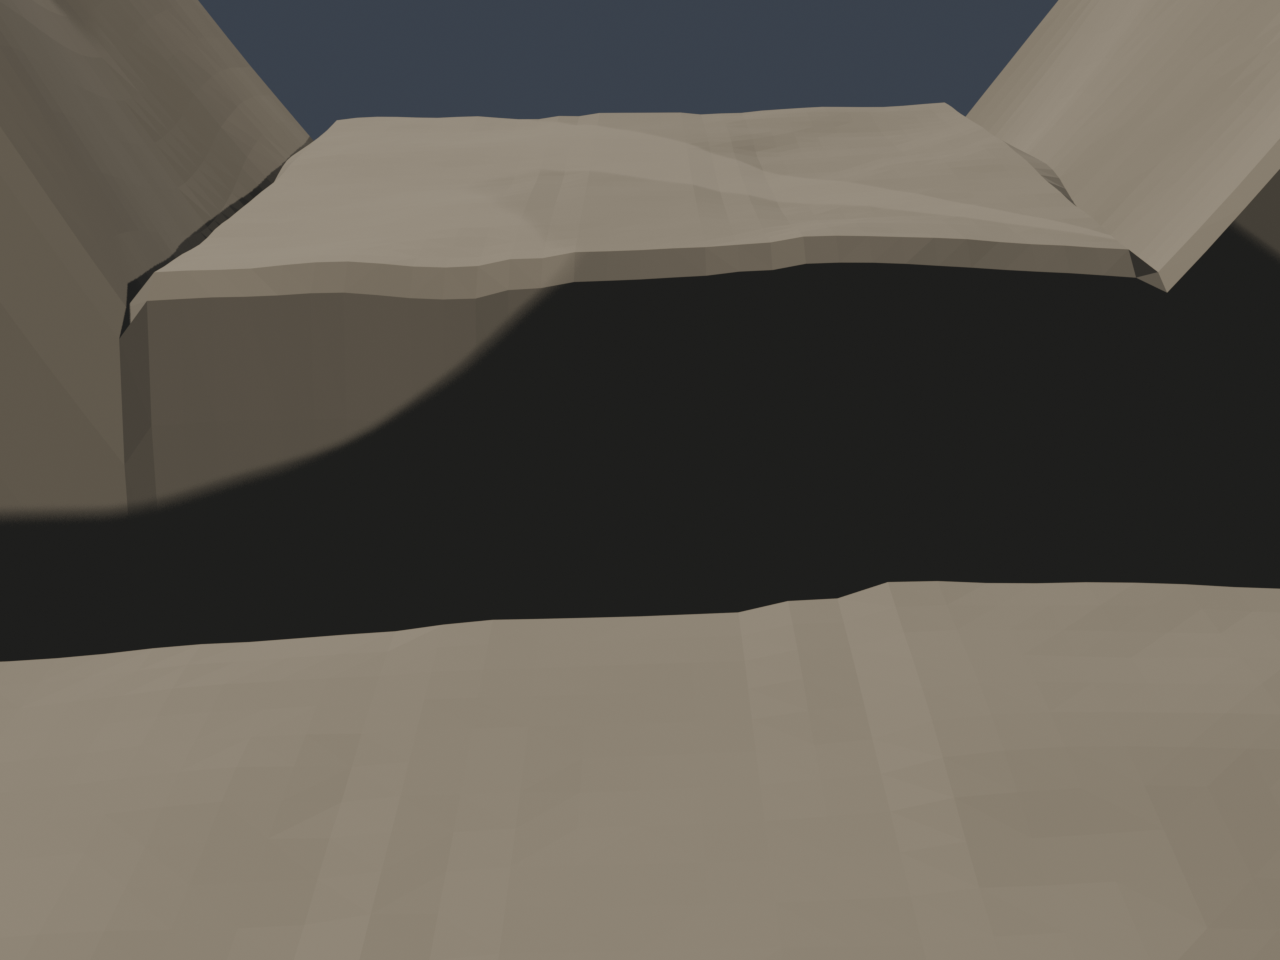
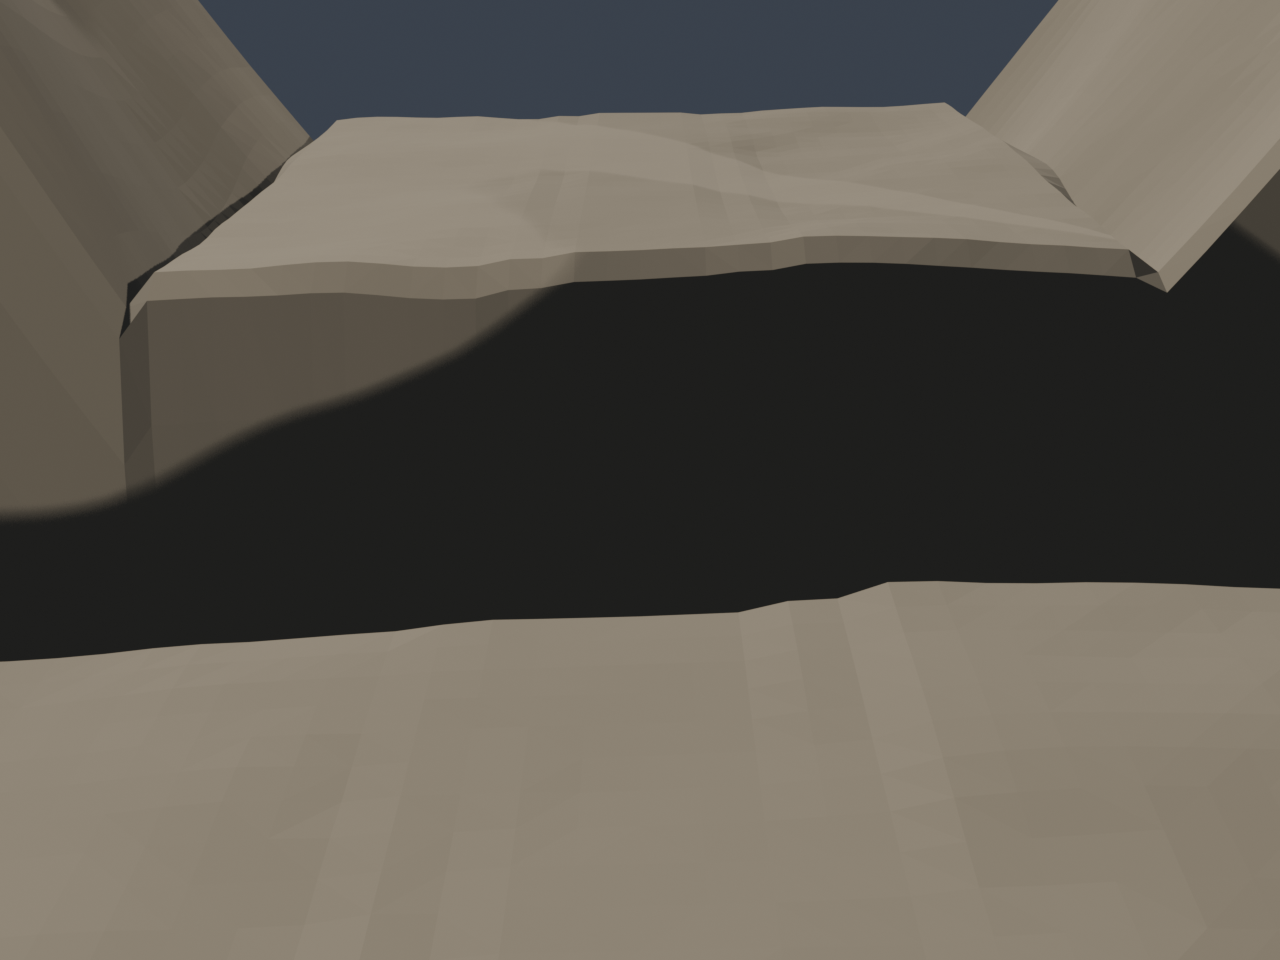
fix(M6-1): 河谷改横向河身（水线~19m横贯峡谷抵崖壁，无路可绕必须游泳；岩缝低矮归M6-2巨石阵）

Changed region(s): [[0.0625, 0.3438, 0.4062, 0.5625]]

diff --git a/blender_assets/scripts/canyon_terrain.py b/blender_assets/scripts/canyon_terrain.py
@@ -5,7 +5,8 @@ headless 用法: blender.exe --background --factory-startup --python canyon_terr
   z  34- 46  下行坡道 y=0 → -1.5（视觉铺 SM_Step 台阶）
   z  46- 96  草原缓起伏 y≈-1.5±0.6
   z  96-126  岩缝段 y=-1.5 平底（|x|>1.4 升壁 3m，缝顶另摆横石）
-  z 126-176  河谷下切（河床 y=-3.5，水面 y=-2.6，宽 18m）
+  z 126-176  河谷段：两岸缓坡河滩 + 横向河身（河床 y=-3.5、水面 y=-2.6；水线宽 ~19m，
+             河道沿 x 横贯峡谷抵两侧崖壁——无路可绕，只能游泳通过）
   z 176-194  南岸高台 y=-1.5（深渊边缘可走行；爬绳段起点）
   z 194-208  深渊带（底 y=-32 全黑不可达，坠入即死；斜绳横越其上）
   z 208-216  对岸崖壁（35m 升至崖顶 y=3）
@@ -66,9 +67,9 @@ def path_height(z):
     if z < 46:   return -1.5 * sstep(34, 46, z)                  # 出口坡道
     if z < 96:   return -1.5                                      # 草原
     if z < 126:  return -1.5                                      # 岩缝平底
-    if z < 176:                                                  # 河谷下切
-        k = sstep(126, 140, z) * (1 - sstep(164, 176, z))
-        return -1.5 - 2.0 * k                                     # 河床 -3.5 → 回 -1.5
+    if z < 176:                                                  # 河谷：横向河身 + 两岸缓坡河滩
+        k = sstep(134, 146, z) * (1 - sstep(154, 166, z))
+        return -1.5 - 2.0 * k                                     # 河床 -3.5（深槽 z 146-154）
     if z < 194:  return -1.5                                      # 南岸高台（深渊边缘）
     if z < 208:  return -1.5 - 30.5 * sstep(194, 206, z)          # 断崖直落：深渊底 -32（全黑不可达）
     return -32.0 + 35.0 * sstep(208, 216, z)                      # 对岸崖壁 35m 升至崖顶 +3
@@ -272,15 +273,27 @@ def render_views():
         assert size > 20000, f"渲染图过小: {path} {size}B"
         print(f"RENDER ok {os.path.basename(path)} {size}B engine={scene.render.engine}")
 
-    # 顶视：七段可辨
+    # 顶视：七段可辨（低角度侧光→河谷/岩缝/深渊呈浮雕明暗；渲染后恢复原光照）
+    sun.rotation_euler = (1.15, 0.0, 0.0)
+    fill_data.energy = 0.15
     shoot(os.path.join(RENDER_DIR, "terrain_top.png"),
           (0, -139, 340), (0, -139, 0), 32, 1024, 1536)
-    # 透视 1：河谷中段回望——两侧崖壁夹持的峡谷纵深（草原→岩缝→河谷下切）
+    sun.rotation_euler = (0.75, 0.15, 0.5)
+    fill_data.energy = 1.0
+    # 透视 1：河谷中段回望——两侧崖壁夹持的峡谷纵深（草原→岩缝→横向河谷）
     shoot(os.path.join(RENDER_DIR, "terrain_persp1.png"),
           (6, -60, 5), (-2, -150, -2), 42, 1280, 960)
     # 透视 2：南岸高台边缘俯瞰——深渊断面→对岸崖壁→崖顶平台
     shoot(os.path.join(RENDER_DIR, "terrain_persp2.png"),
           (0, -160, 16), (0, -210, -4), 42, 1280, 960)
+    # 透视 3：河谷瞭望——出岩缝南望：河滩前景 → 横向河槽 → 对岸缓坡（水线宽 ~19m）
+    # 临时低角度侧光：高角度光下 2m 浅槽对比弱，低角度光让南北坡呈浮雕明暗（渲染后恢复）
+    sun.rotation_euler = (1.15, 0.0, 0.0)
+    fill_data.energy = 0.15
+    shoot(os.path.join(RENDER_DIR, "terrain_river.png"),
+          (0, -128, 4), (0, -152, -3.5), 24, 1280, 960)
+    sun.rotation_euler = (0.75, 0.15, 0.5)
+    fill_data.energy = 1.0
 
 
 def main():

diff --git a/docs/superpowers/plans/2026-10-11-adventure-expansion-m6.md b/docs/superpowers/plans/2026-10-11-adventure-expansion-m6.md
@@ -87,7 +87,8 @@ headless 用法: blender.exe --background --factory-startup --python canyon_terr
   z  34- 46  下行坡道 y=0 → -1.5（视觉铺 SM_Step 台阶）
   z  46- 96  草原缓起伏 y≈-1.5±0.6
   z  96-126  岩缝段 y=-1.5 平底（|x|>1.4 升壁 3m，缝顶另摆横石）
-  z 126-176  河谷下切（河床 y=-3.5，水面 y=-2.6，宽 18m）
+  z 126-176  河谷段：两岸缓坡河滩 + 横向河身（河床 y=-3.5、水面 y=-2.6；水线宽 ~19m，
+             河道沿 x 横贯峡谷抵两侧崖壁——无路可绕，只能游泳通过）
   z 176-194  南岸高台 y=-1.5（深渊边缘可走行；爬绳段起点）
   z 194-208  深渊带（底 y=-32 全黑不可达，坠入即死；斜绳横越其上）
   z 208-216  对岸崖壁（35m 升至崖顶 y=3）
@@ -115,9 +116,9 @@ def path_height(z):
     if z < 46:   return -1.5 * sstep(34, 46, z)                  # 出口坡道
     if z < 96:   return -1.5                                      # 草原
     if z < 126:  return -1.5                                      # 岩缝平底
-    if z < 176:                                                  # 河谷下切
-        k = sstep(126, 140, z) * (1 - sstep(164, 176, z))
-        return -1.5 - 2.0 * k                                     # 河床 -3.5 → 回 -1.5
+    if z < 176:                                                  # 河谷：横向河身 + 两岸缓坡河滩
+        k = sstep(134, 146, z) * (1 - sstep(154, 166, z))
+        return -1.5 - 2.0 * k                                     # 河床 -3.5（深槽 z 146-154）
     if z < 194:  return -1.5                                      # 南岸高台（深渊边缘）
     if z < 208:  return -1.5 - 30.5 * sstep(194, 206, z)          # 断崖直落：深渊底 -32（全黑不可达）
     return -32.0 + 35.0 * sstep(208, 216, z)                      # 对岸崖壁 35m 升至崖顶 +3
@@ -164,14 +165,14 @@ def build_terrain():
 
 - [ ] **Step 2: 补导出/渲染/断言段并 headless 跑**
 
-（脚本后续段：SM_Step 构建 → 材质 → triangulate → 导出（`axis_forward='-Z', axis_up='Y'`，与 temple_kit 相同）→ assert（顶点数 ≈185×65、FBX >20KB、tris ≤ 30k）→ `--render` 时顶视+两个透视渲染到 `docs/milestones/M6/`）
+（脚本后续段：SM_Step 构建 → 材质 → triangulate → 导出（`axis_forward='-Z', axis_up='Y'`，与 temple_kit 相同）→ assert（顶点数 ≈185×65、FBX >20KB、tris ≤ 30k）→ `--render` 时顶视+两个透视+河谷俯瞰渲染到 `docs/milestones/M6/`）
 
 Run: `blender.exe --background --factory-startup --python blender_assets/scripts/canyon_terrain.py -- --render`
-Expected: 输出 `OK terrain verts=... tris=... fbx=...B`，三张渲染图生成且 >20KB
+Expected: 输出 `OK terrain verts=... tris=... fbx=...B`，四张渲染图生成且 >20KB
 
 - [ ] **Step 3: 人工检查渲染图**
 
-看 `terrain_top.png`（顶视：七段可辨）与透视两张（峡谷两侧壁、河谷下切、对岸崖顶）。**不看图不提交**。
+看 `terrain_top.png`（顶视：七段可辨）、透视两张（峡谷两侧壁、对岸崖顶）与 `terrain_river.png`（河谷俯瞰：横河贯通两岸崖壁、无步行绕行通路）。**不看图不提交**。
 
 - [ ] **Step 4: Commit**
 
@@ -248,8 +249,8 @@ public static class OutdoorBuilder
 先执行菜单 `Demo/构建户外场景`，然后 unityMCP 进 Play，`execute_code` 采样 3 点：
 
 ```csharp
-// 期望: 三点射线命中高度 ≈ { z=30:y≈0±1, z=70:y≈-1.5±1, z=140:y≈-3.2±1 }
-foreach (float z in new float[]{30f, 70f, 140f}) {
+// 期望: 三点射线命中高度 ≈ { z=30:y≈0±1, z=70:y≈-1.5±1, z=150:y≈-3.5±1.5 }
+foreach (float z in new float[]{30f, 70f, 150f}) {
     Physics.Raycast(new Vector3(0, 30f, z), Vector3.down, out var hit, 100f);
     Debug.Log($"[M6-1] z={z} groundY={hit.point.y:F2}");
 }
@@ -409,7 +410,7 @@ git commit -m "feat(M6-1): 植被资产五件（草簇/灌木×2/树×2，程序
 
 ```csharp
 // 规则：射线从 (x, 40, z) 向下；要求命中 OUT_SM_CanyonTerrain；法线 y>0.85（坡度<32°）；
-// 路径带 |x|<4 不撒树（草可）；高程带权重：草原段(z 46-96)最密、河谷(z126-176)只草、崖壁(|x|>20)不撒。
+// 路径带 |x|<4 不撒树（草可）；高程带权重：草原段(z 46-96)最密、河谷(z 126-176)只草（水下 z≈140-160 不撒）、崖壁(|x|>20)不撒。
 // 随机：格点 + 抖动 0-2m；旋转随机 yaw；缩放 0.8-1.3。
 ```
 
@@ -887,7 +888,7 @@ public class CuttableVine : MonoBehaviour, ICuttable
         done = true;
         AudioManager.Instance?.Chop();
         var col = GetComponent<Collider>(); if (col) col.enabled = false;
-        SimpleUI.Instance?.SetObjective("继续向北，穿过河谷");
+        SimpleUI.Instance?.SetObjective("继续向北——游过河谷");
         StartCoroutine(Fall(dir));
     }
 
@@ -937,8 +938,8 @@ git commit -m "feat(M6-3): 藤蔓帘（塌落斩断+提示+Chop 音效）"
 - Modify: `game/3D-Demo/Assets/Editor/OutdoorBuilder.cs`（追加 `BuildWater()`）
 
 **Interfaces:**
-- Produces: `WaterVolume.Instance`（静态单例）；`waterLevel`（水面 y=-2.6）；`Contains(Vector3)`（水平矩形范围判定）；`OUT_Water` 水面对象（45×50m，URP Lit 透明水色）
-- Consumes: Task 1 河谷段（河床 -3.5、水面 -2.6、z 126-176）
+- Produces: `WaterVolume.Instance`（静态单例）；`waterLevel`（水面 y=-2.6）；`Contains(Vector3)`（水平矩形范围判定）；`OUT_Water` 水面对象（48×22m，URP Lit 透明水色）
+- Consumes: Task 1 河谷段（河床 -3.5、水面 -2.6、水线 z≈140-160）
 
 - [ ] **Step 1: 写 WaterVolume.cs（位置判定——CC 不产生 Trigger 事件，沿用 GoalTrigger 经验）**
 
@@ -949,7 +950,7 @@ public class WaterVolume : MonoBehaviour
 {
     public static WaterVolume Instance;
     public float waterLevel = -2.6f;
-    public Vector2 xzMin = new Vector2(-22.5f, 126f), xzMax = new Vector2(22.5f, 176f);
+    public Vector2 xzMin = new Vector2(-24f, 139f), xzMax = new Vector2(24f, 160f);
 
     void Awake() { Instance = this; }
 
@@ -971,8 +972,8 @@ static void BuildWater()
     var go = GameObject.CreatePrimitive(PrimitiveType.Plane);
     go.name = "OUT_Water";
     Object.DestroyImmediate(go.GetComponent<Collider>());          // 水面不参与碰撞（游泳走状态判定）
-    go.transform.position = new Vector3(0, -2.6f, 151f);
-    go.transform.localScale = new Vector3(4.5f, 1, 5f);            // 45m × 50m
+    go.transform.position = new Vector3(0, -2.6f, 149.5f);
+    go.transform.localScale = new Vector3(4.8f, 1, 2.2f);          // 48m × 22m（横向河身）
     var mat = new Material(Shader.Find("Universal Render Pipeline/Lit"));
     mat.SetFloat("_Surface", 1); mat.SetFloat("_Blend", 0);        // Transparent
     mat.SetColor("_BaseColor", new Color(0.10f, 0.30f, 0.36f, 0.72f));
@@ -983,7 +984,7 @@ static void BuildWater()
     AssetDatabase.SaveAssets();
     go.GetComponent<MeshRenderer>().sharedMaterial = AssetDatabase.LoadAssetAtPath<Material>("Assets/Art/Static/outdoor/M_Water.mat");
     var wv = new GameObject("OUT_WaterVolume").AddComponent<WaterVolume>();   // 判定体与水面同坐标
-    wv.transform.position = new Vector3(0, -2.6f, 151f);
+    wv.transform.position = new Vector3(0, -2.6f, 149.5f);
 }
 ```
 
